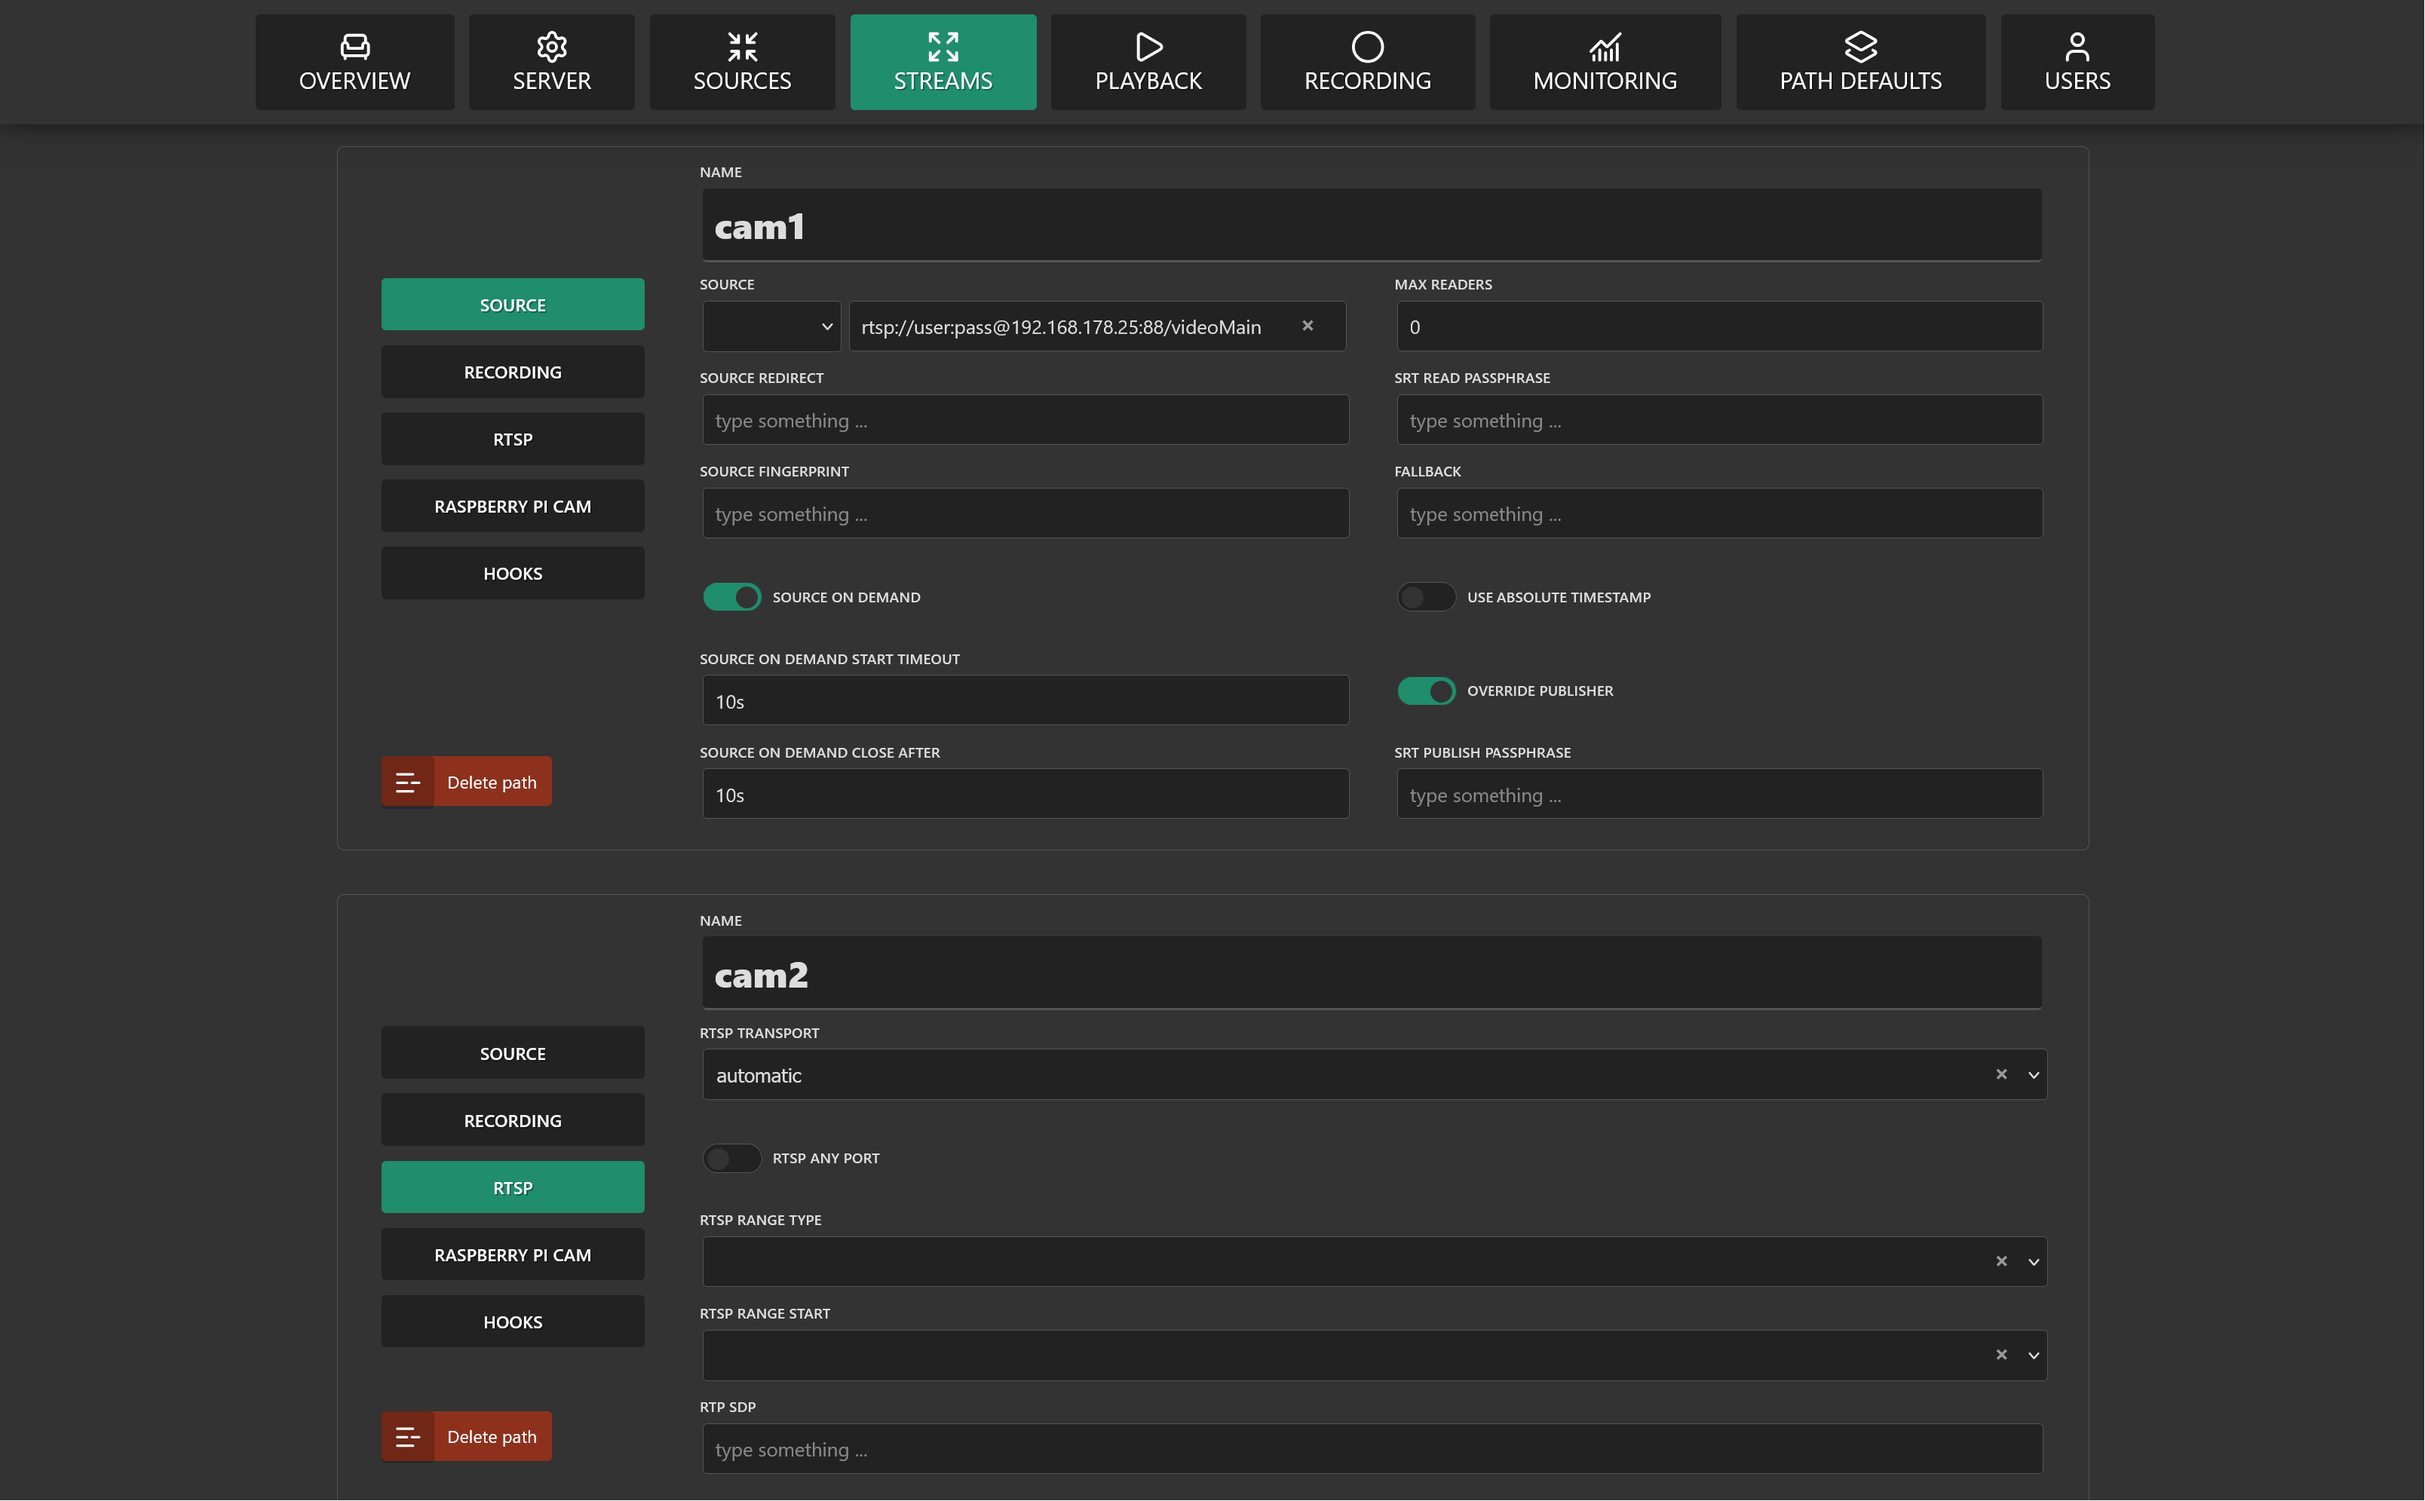
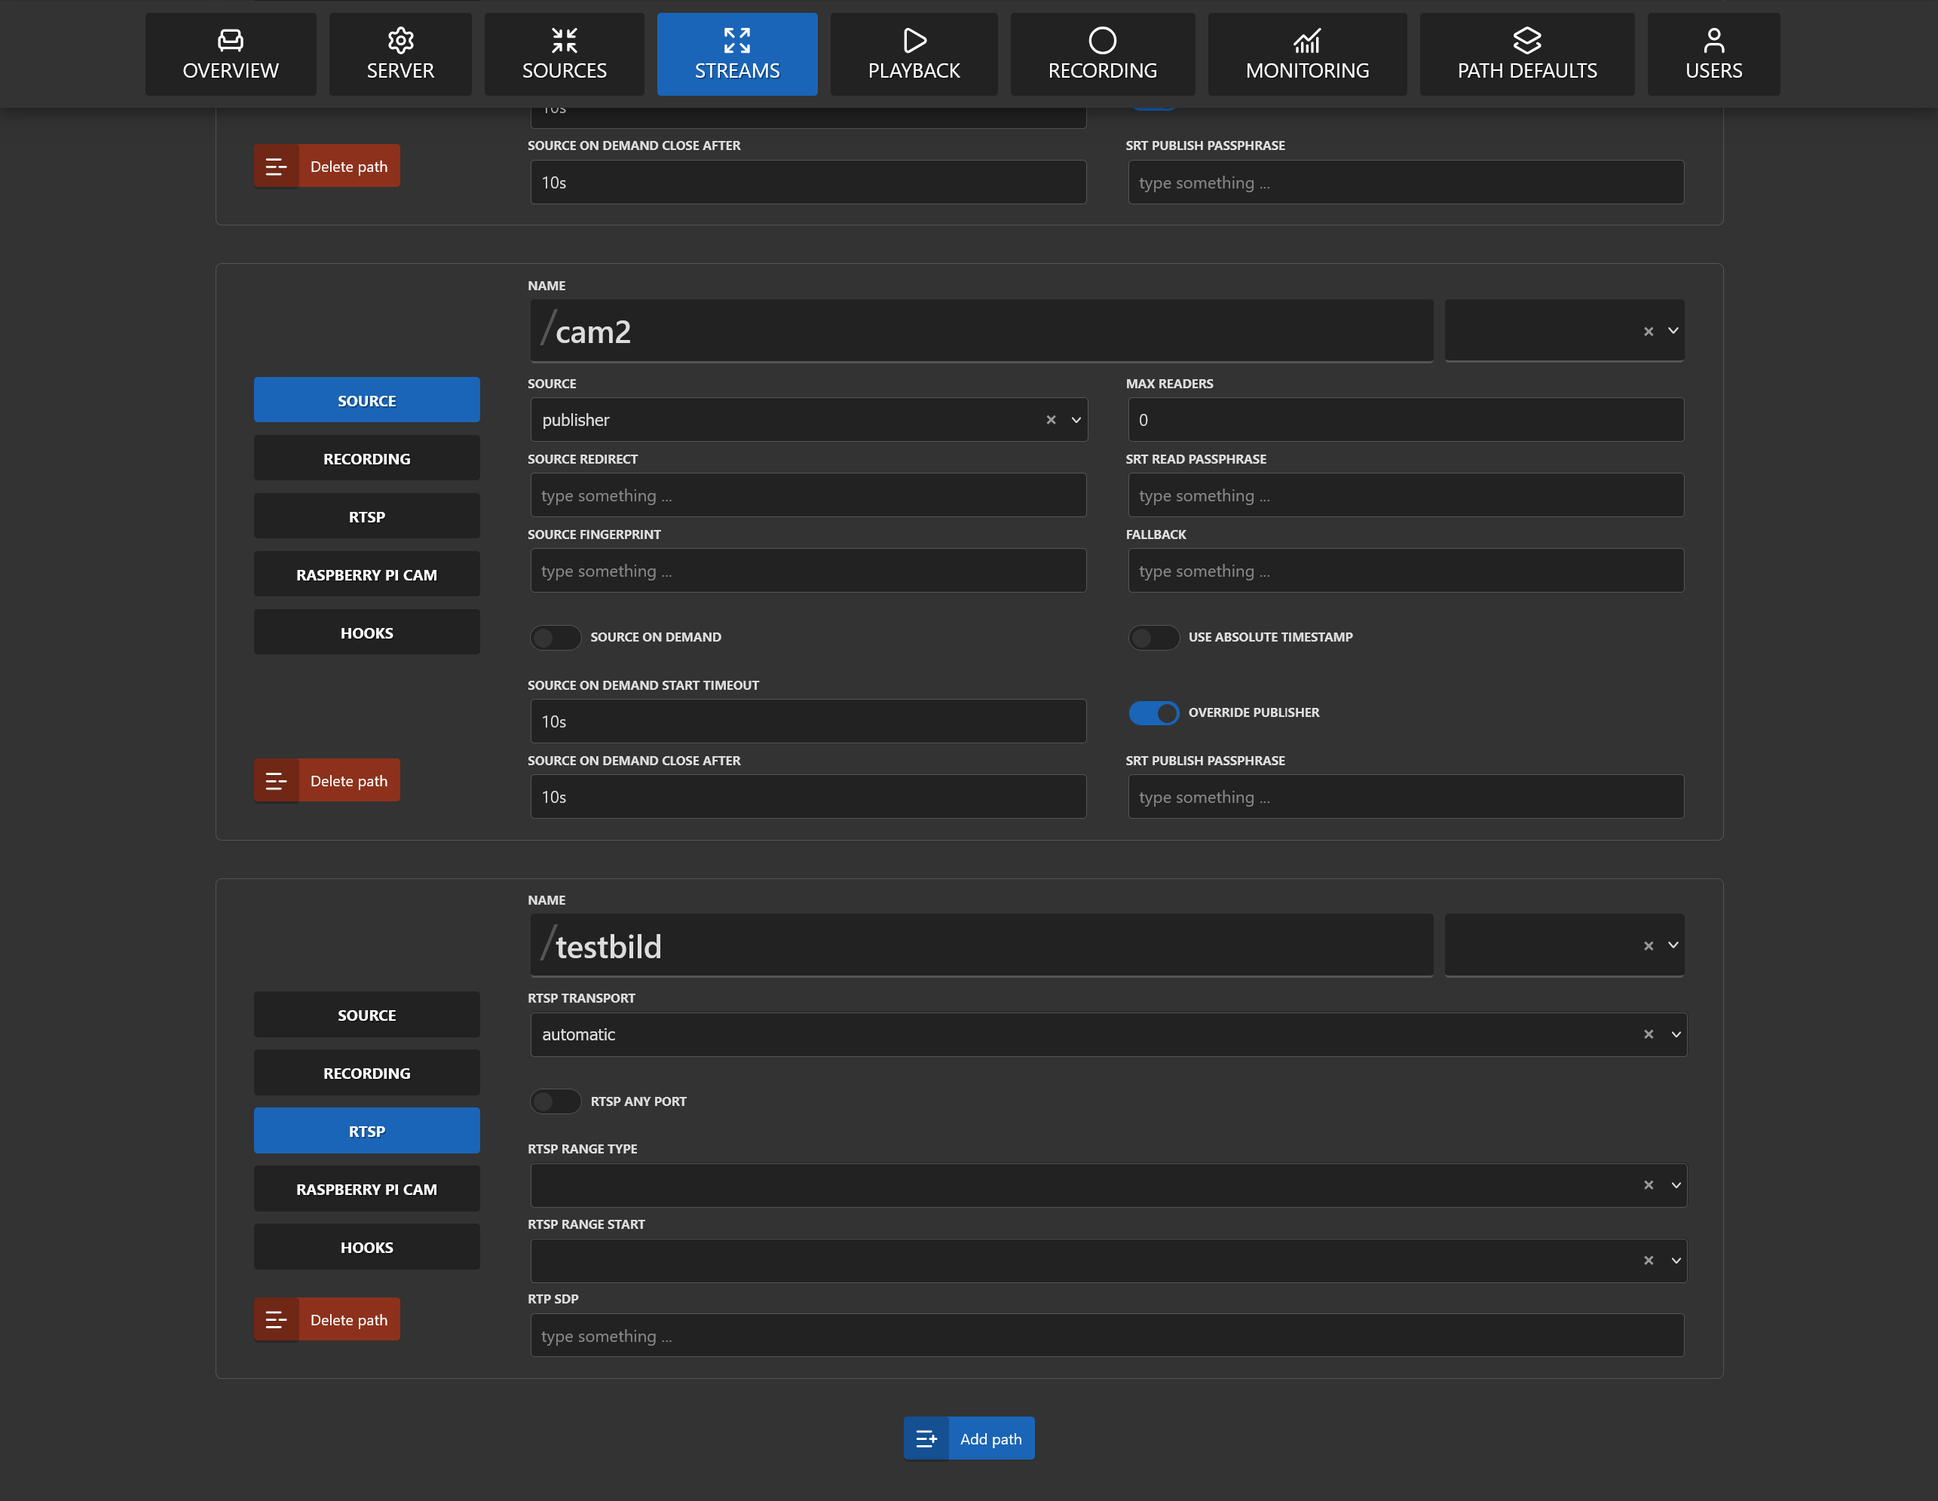
redme

diff --git a/server/public/css/page.css b/server/public/css/page.css
@@ -406,6 +406,7 @@ video {
                 border: none;
                 border-bottom: 2px solid var(--light-border-color);
                 padding-left: 20px;
+                width: calc(80% - 100px);
             }
 
             select {
@@ -489,7 +490,6 @@ video {
 
         input[type=text] {
             display: none;
-
         }
 
         &.custom {
@@ -501,9 +501,16 @@ video {
 
             input[type=text] {
                 display: block;
+                width: calc(80% - 56px);
+            }
+        }
+    }
+
+    &.name {
+        &.custom {
+            input[type=text] {
                 width: calc(80% - 70px);
             }
         }
-
     }
 }

diff --git a/README.md b/README.md
@@ -2,7 +2,9 @@
 Originally it was an FFmpeg orchestrator with a web UI. Now it’s becoming a dashboard for MediaMTX. The repository name no longer fits, so I’ll probably rename it.
 
 
-![Screenshot #1](../master/screenshots/screenshot_01.png?raw=true "Screenshot #1")
+![Screenshot #1](../master/screenshots/screenshot_01.png?raw=true "Screenshot Global Options")
+![Screenshot #10](../master/screenshots/screenshot_01.png?raw=true "Screenshot User List")
+![Screenshot #16](../master/screenshots/screenshot_16.png?raw=true "Screenshot Paths")
 
 ## 🡆 Prerequisites
 - set up you raspberry pi 4 or 5 (expand filesystem, locale)
